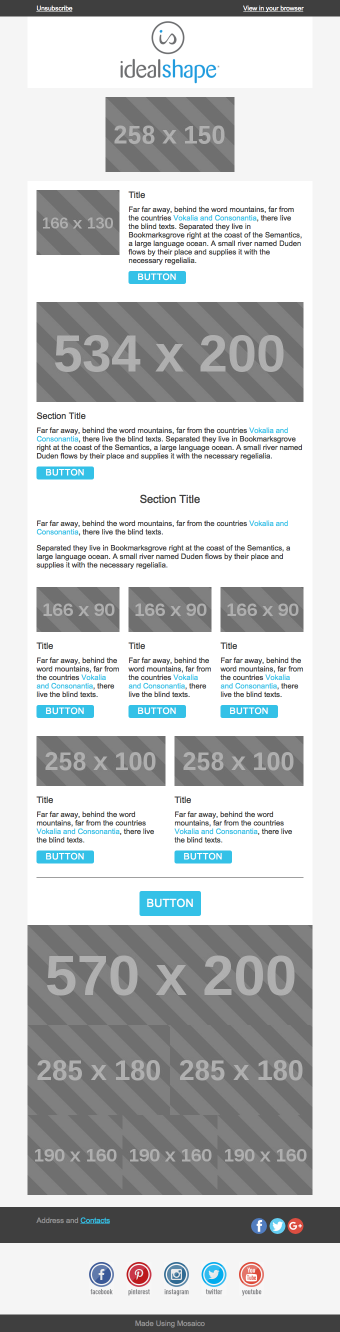
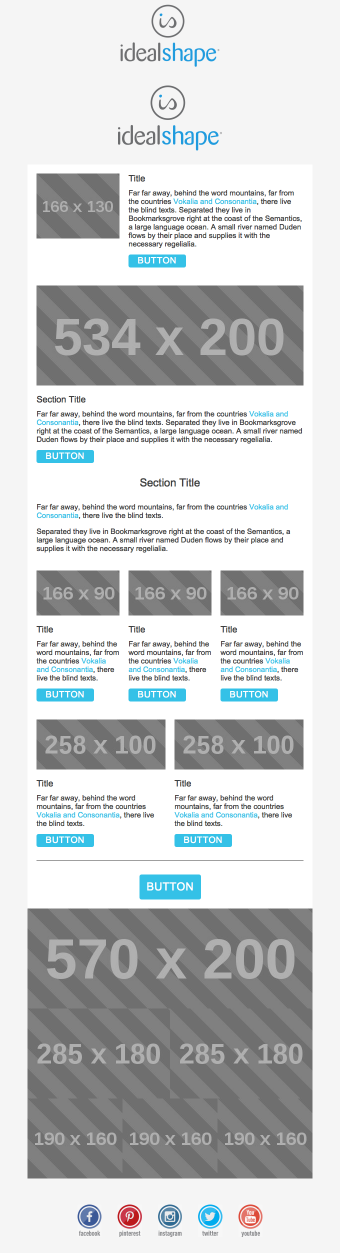
WIP: Updating header and footer area

diff --git a/templates/idealshape/template-idealshape-old.html b/templates/idealshape/template-idealshape-old.html
@@ -479,12 +479,14 @@
                             <tr>
                                 <td valign="top" align="center">
 
-                                    <!--[if (gte mso 9)|(lte ie 8)]><table align="center" border="0" cellspacing="0" cellpadding="0" width="258" style="width:258px;"><tr><td align="center" valign="top"><![endif]-->
-                                    <div style="display:inline-block; max-width:258px; vertical-align:top; width:100%;" class="mobile-full">
-                                        <img
-                                                width="258" height="150" alt="IdealShape&reg;"
-                                                style="; width: 100%; max-width: 258px; height: auto"
-                                                src="http://d2w5b3egn8gy41.cloudfront.net/wp-content/uploads/2017/05/09100257/idealshape-logo.png" vspace="0" hspace="0" border="0" />
+                                    <!--[if (gte mso 9)|(lte ie 8)]><table align="center" border="0" cellspacing="0" cellpadding="0" width="258" style="-ko-attr-width: @[imageWidth]"><tr><td align="center" valign="top"><![endif]-->
+                                    <div style="display:inline-block; max-width:258px; -ko-max-width: @[imageWidth]px; vertical-align:top; width:100%;" class="mobile-full">
+                                        <a data-ko-link="image.url" href="" style="font-size: 18px; font-family: Arial, Helvetica, sans-serif; color: #f3f3f3;
+                      text-decoration: none; -ko-font-size: @[externalTextStyle.size]px;
+                      -ko-font-family: @externalTextStyle.face; -ko-color: @externalTextStyle.color"><img
+                                                data-ko-editable="image.src" width="258" data-ko-placeholder-height="150"
+                                                style="-ko-attr-alt: @image.alt; width: 100%; max-width: 258px; -ko-attr-width: @imageWidth; -ko-max-width: @[imageWidth]px;"
+                                                src="http://mosaico.io/srv/f-default/img?method=placeholder&amp;params=258%2C150" vspace="0" hspace="0" border="0" alt="" /></a>
                                     </div>
                                     <!--[if (gte mso 9)|(lte ie 8)]></td></tr></table><![endif]-->
 
@@ -497,39 +499,6 @@
                 </td>
             </tr>
         </table>
-        <!-- /logoBlock  -->
-
-        <!-- logoBlock -->
-        <!--<table class="vb-outer" width="100%" cellpadding="0" border="0" cellspacing="0" bgcolor="#F5F5F5"-->
-               <!--style="background-color: #F5F5F5; -ko-background-color: @externalBackgroundColor; -ko-attr-bgcolor: @externalBackgroundColor" data-ko-block="logoBlock">-->
-            <!--<tr>-->
-                <!--<td class="vb-outer" align="center" valign="top" bgcolor="#F5F5F5"-->
-                    <!--style="background-color: #F5F5F5; -ko-background-color: @externalBackgroundColor; -ko-attr-bgcolor: @externalBackgroundColor">-->
-
-                    <!--&lt;!&ndash;[if (gte mso 9)|(lte ie 8)]><table align="center" border="0" cellspacing="0" cellpadding="0" width="570"><tr><td align="center" valign="top"><![endif]&ndash;&gt;-->
-                    <!--<div class="oldwebkit">-->
-                        <!--<table width="570" style="width: 100%; max-width: 570px" border="0" cellpadding="0" cellspacing="0" class="vb-container fullpad">-->
-                            <!--<tr>-->
-                                <!--<td valign="top" align="center">-->
-
-                                    <!--&lt;!&ndash;[if (gte mso 9)|(lte ie 8)]><table align="center" border="0" cellspacing="0" cellpadding="0" width="570" style="width:570px;"><tr><td align="center" valign="top"><![endif]&ndash;&gt;-->
-                                    <!--<div style="display:inline-block; max-width:570px; vertical-align:top; width:100%;" class="mobile-full">-->
-                                        <!--<img-->
-                                                <!--width="570" height="143" alt="IdealShape&reg;"-->
-                                                <!--style="; width: 100%; max-width: 570px; height: auto"-->
-                                                <!--src="https://s1.thcdn.com/design-assets/ideal/img/idealshape/email-images/core/idealshape-email-header.png" vspace="0" hspace="0" border="0" />-->
-                                    <!--</div>-->
-                                    <!--&lt;!&ndash;[if (gte mso 9)|(lte ie 8)]></td></tr></table><![endif]&ndash;&gt;-->
-
-                                <!--</td>-->
-                            <!--</tr>-->
-                        <!--</table>-->
-                    <!--</div>-->
-                    <!--&lt;!&ndash;[if (gte mso 9)|(lte ie 8)]></td></tr></table><![endif]&ndash;&gt;-->
-
-                <!--</td>-->
-            <!--</tr>-->
-        <!--</table>-->
         <!-- /logoBlock  -->
 
         <!-- sideArticleBlock  -->
@@ -1392,7 +1361,7 @@
 
     <!-- IdealShape Footer Box -->
     <div data-ko-display="socialFooterVisible" data-ko-wrap="false">
-        <table width="100%" cellpadding="0" cellspacing="0" border="0" bgcolor="#f5f5f5" style="background-color: #f5f5f5; -ko-background-color: @backgroundColor; -ko-attr-bgcolor: @backgroundColor;" data-ko-block="socialfooterBlock">
+        <table width="100%" cellpadding="0" cellspacing="0" borde="0" bgcolor="#f5f5f5" style="background-color: #f5f5f5; -ko-background-color: @backgroundColor; -ko-attr-bgcolor: @backgroundColor;" data-ko-block="socialfooterBlock">
             <tr>
                 <td align="center" valign="top" bgcolor="#f5f5f5" style="background-color: #f5f5f5; -ko-attr-bgcolor: @backgroundColor; -ko-background-color: @backgroundColor">
                     <!--[if (gte mso 9)|(lte ie 8)]><table align="center" border="0" cellspacing="0" cellpadding="0" width="570"><tr><td align="center" valign="top"><![endif]-->
@@ -1408,21 +1377,6 @@
                                         <tr>
                                             <td align="center" valign="top" width="552">
                                     <![endif]-->
-                                    <table width="80%" cellpadding="0" cellspacing="0" border="0">
-                                        <tr>
-                                            <td align="center"></td>
-                                            <td></td>
-                                            <td></td>
-                                            <td></td>
-                                            <td></td>
-                                            <td></td>
-                                            <td></td>
-                                            <td></td>
-                                            <td></td>
-                                        </tr>
-                                    </table>
-
-
                                     <a href="https://www.facebook.com/idealshape" target="_blank" style="display:inline-block; max-width:9.1%">
                                         <img align="middle" border="0" width="50" height="67" style="max-width:50px; max-width:100%; height:auto;" src="https://s1.thcdn.com/design-assets/ideal/img/idealshape/email-images/core/facebook.png" alt="facebook" />
                                     </a>
